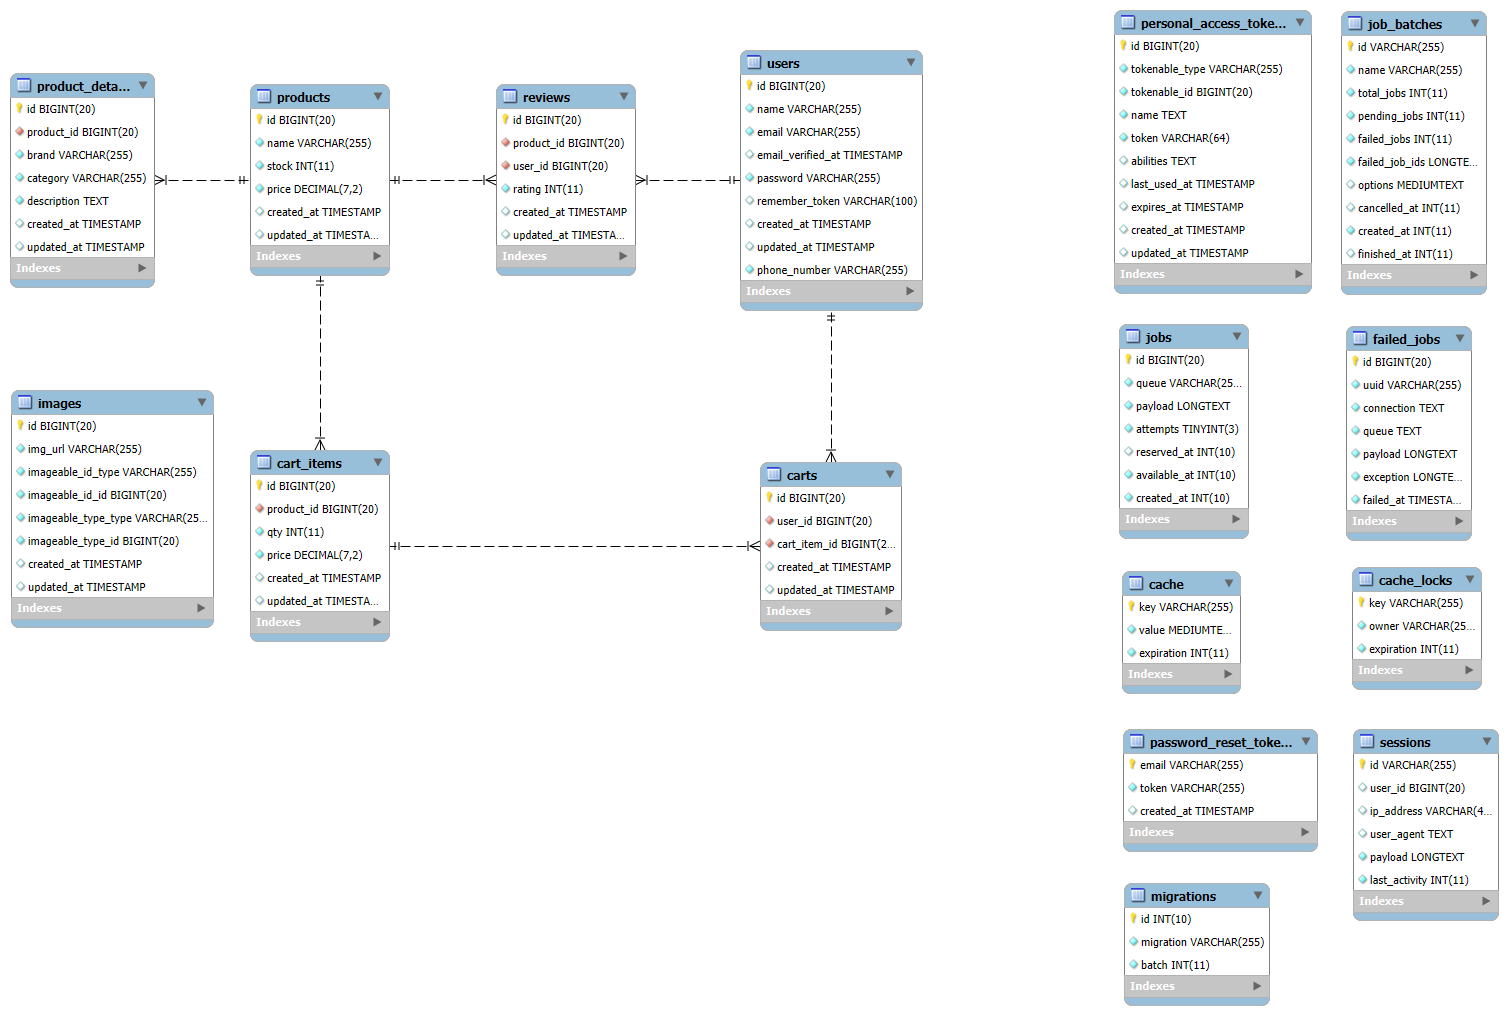
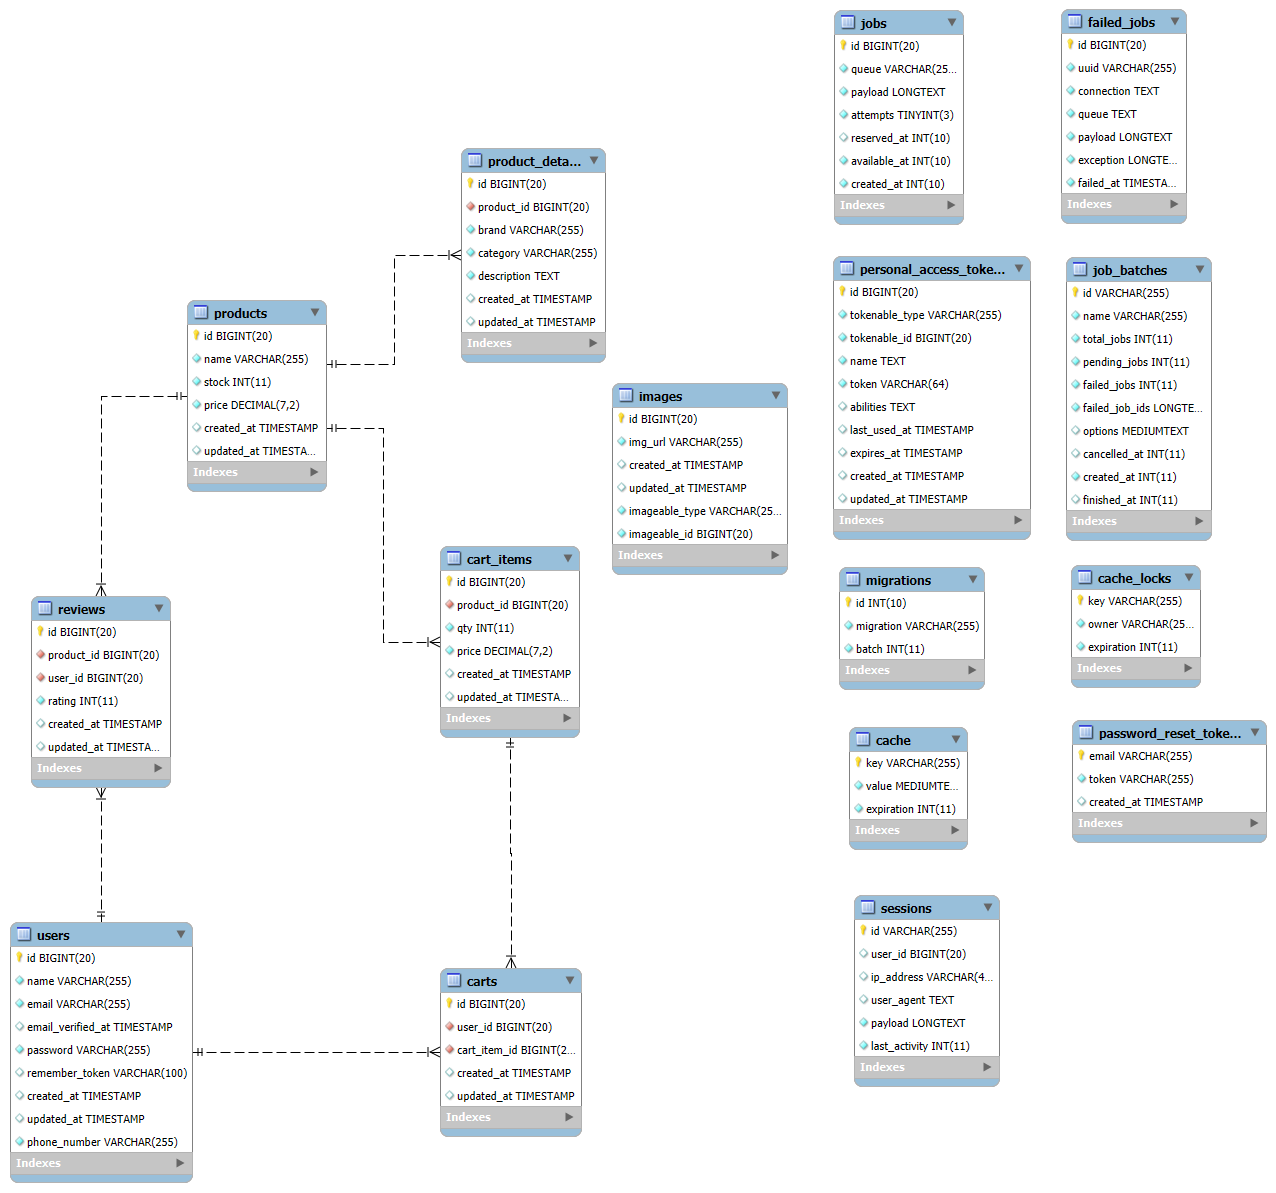
Helper functions added with fillable

diff --git a/app/Http/Controllers/ProductController.php b/app/Http/Controllers/ProductController.php
@@ -1,0 +1,55 @@
+<?php
+
+namespace App\Http\Controllers;
+
+use App\Models\Product;
+use Illuminate\Http\Request;
+
+class ProductController extends Controller
+{
+    /**
+     * Display a listing of the resource.
+     */
+    public function index()
+    {
+        $data = Product::with(['productDetails','images','reviews'])->paginate(10);
+        return response()->json([
+            "data" => $data,
+            "message" => "Success"
+        ],200);
+    }
+
+    /**
+     * Store a newly created resource in storage.
+     */
+    public function store(Request $request)
+    {
+        //
+    }
+
+    /**
+     * Display the specified resource.
+     */
+    public function show(Product $product)
+    {
+        return response()->json([
+            "data" => $product
+        ]);
+    }
+
+    /**
+     * Update the specified resource in storage.
+     */
+    public function update(Request $request, string $id)
+    {
+        //
+    }
+
+    /**
+     * Remove the specified resource from storage.
+     */
+    public function destroy(string $id)
+    {
+        //
+    }
+}

diff --git a/database/migrations/2026_04_12_064153_add_morph_to_images.php b/database/migrations/2026_04_12_064153_add_morph_to_images.php
@@ -1,0 +1,29 @@
+<?php
+
+use Illuminate\Database\Migrations\Migration;
+use Illuminate\Database\Schema\Blueprint;
+use Illuminate\Support\Facades\Schema;
+
+return new class extends Migration
+{
+    /**
+     * Run the migrations.
+     */
+    public function up(): void
+    {
+        Schema::table('images', function (Blueprint $table) {
+            $table->morphs("imageable");
+        });
+    }
+
+    /**
+     * Reverse the migrations.
+     */
+    public function down(): void
+    {
+        Schema::table('images', function (Blueprint $table) {
+            $table->dropColumn("imageable_id");
+            $table->dropColumn("imageable_type");
+        });
+    }
+};

diff --git a/app/Models/Product.php b/app/Models/Product.php
@@ -6,5 +6,23 @@ use Illuminate\Database\Eloquent\Model;
 
 class Product extends Model
 {
-    //
+    public $fillable= [
+        "name",
+        "stock",
+        "price"
+    ];
+    public function productDetails(){
+        return $this->hasOne(ProductDetail::class,'product_id');
+    }
+
+    public function images(){
+        return $this->morphMany(Images::class,'imageable');
+    }
+
+    public function reviews(){
+        return $this->hasMany(Review::class,'product_id');
+    }
+    public function cartItem(){
+        return $this->hasMany(CartItem::class,'product_id');
+    }
 }

diff --git a/app/Models/Review.php b/app/Models/Review.php
@@ -6,5 +6,17 @@ use Illuminate\Database\Eloquent\Model;
 
 class Review extends Model
 {
-    //
+    //fillables
+    public $fillable= [
+        "product_id",
+        "user_id",
+        "rating"
+    ];
+    public function product(){
+        return $this->belongsTo(Product::class,'product_id');
+    }
+
+    public function users(){
+        return $this->belongsTo(User::class);
+    }
 }

diff --git a/app/Models/Cart.php b/app/Models/Cart.php
@@ -6,5 +6,16 @@ use Illuminate\Database\Eloquent\Model;
 
 class Cart extends Model
 {
-    //
+    //fillables
+    public $fillable =[
+        "user_id",
+        "cart_item_id"
+    ];
+    public function user(){
+        return $this->belongsTo(User::class,'user_id');
+    }
+
+    public function cartItem(){
+        return $this->belongsTo(Cart::class,'cart_item_id');
+    }
 }

diff --git a/app/Models/ProductDetail.php b/app/Models/ProductDetail.php
@@ -6,5 +6,14 @@ use Illuminate\Database\Eloquent\Model;
 
 class ProductDetail extends Model
 {
-    //
+    // fillables
+    public $fillable= [
+        "product_id",
+        "brand",
+        "category",
+        "description"
+    ];
+    public function product(){
+        return $this->belongsTo(Product::class,'product_id');
+    }
 }

diff --git a/routes/api.php b/routes/api.php
@@ -1,8 +1,11 @@
 <?php
 
+use App\Http\Controllers\ProductController;
 use Illuminate\Http\Request;
 use Illuminate\Support\Facades\Route;
 
 Route::get('/user', function (Request $request) {
     return $request->user();
 })->middleware('auth:sanctum');
+
+Route::apiResource('products',ProductController::class);

diff --git a/app/Models/CartItem.php b/app/Models/CartItem.php
@@ -6,5 +6,13 @@ use Illuminate\Database\Eloquent\Model;
 
 class CartItem extends Model
 {
-    //
+    //fillables
+    public $fillable= [
+        "product_id",
+        "qty",
+        "price"
+    ];
+    public function product(){
+        return $this->belongsTo(Product::class,'product_id');
+    }
 }

diff --git a/app/Models/Images.php b/app/Models/Images.php
@@ -6,5 +6,8 @@ use Illuminate\Database\Eloquent\Model;
 
 class Images extends Model
 {
-    //
+    //fillables
+    public function product(){
+        return $this->morphTo();
+    }
 }
